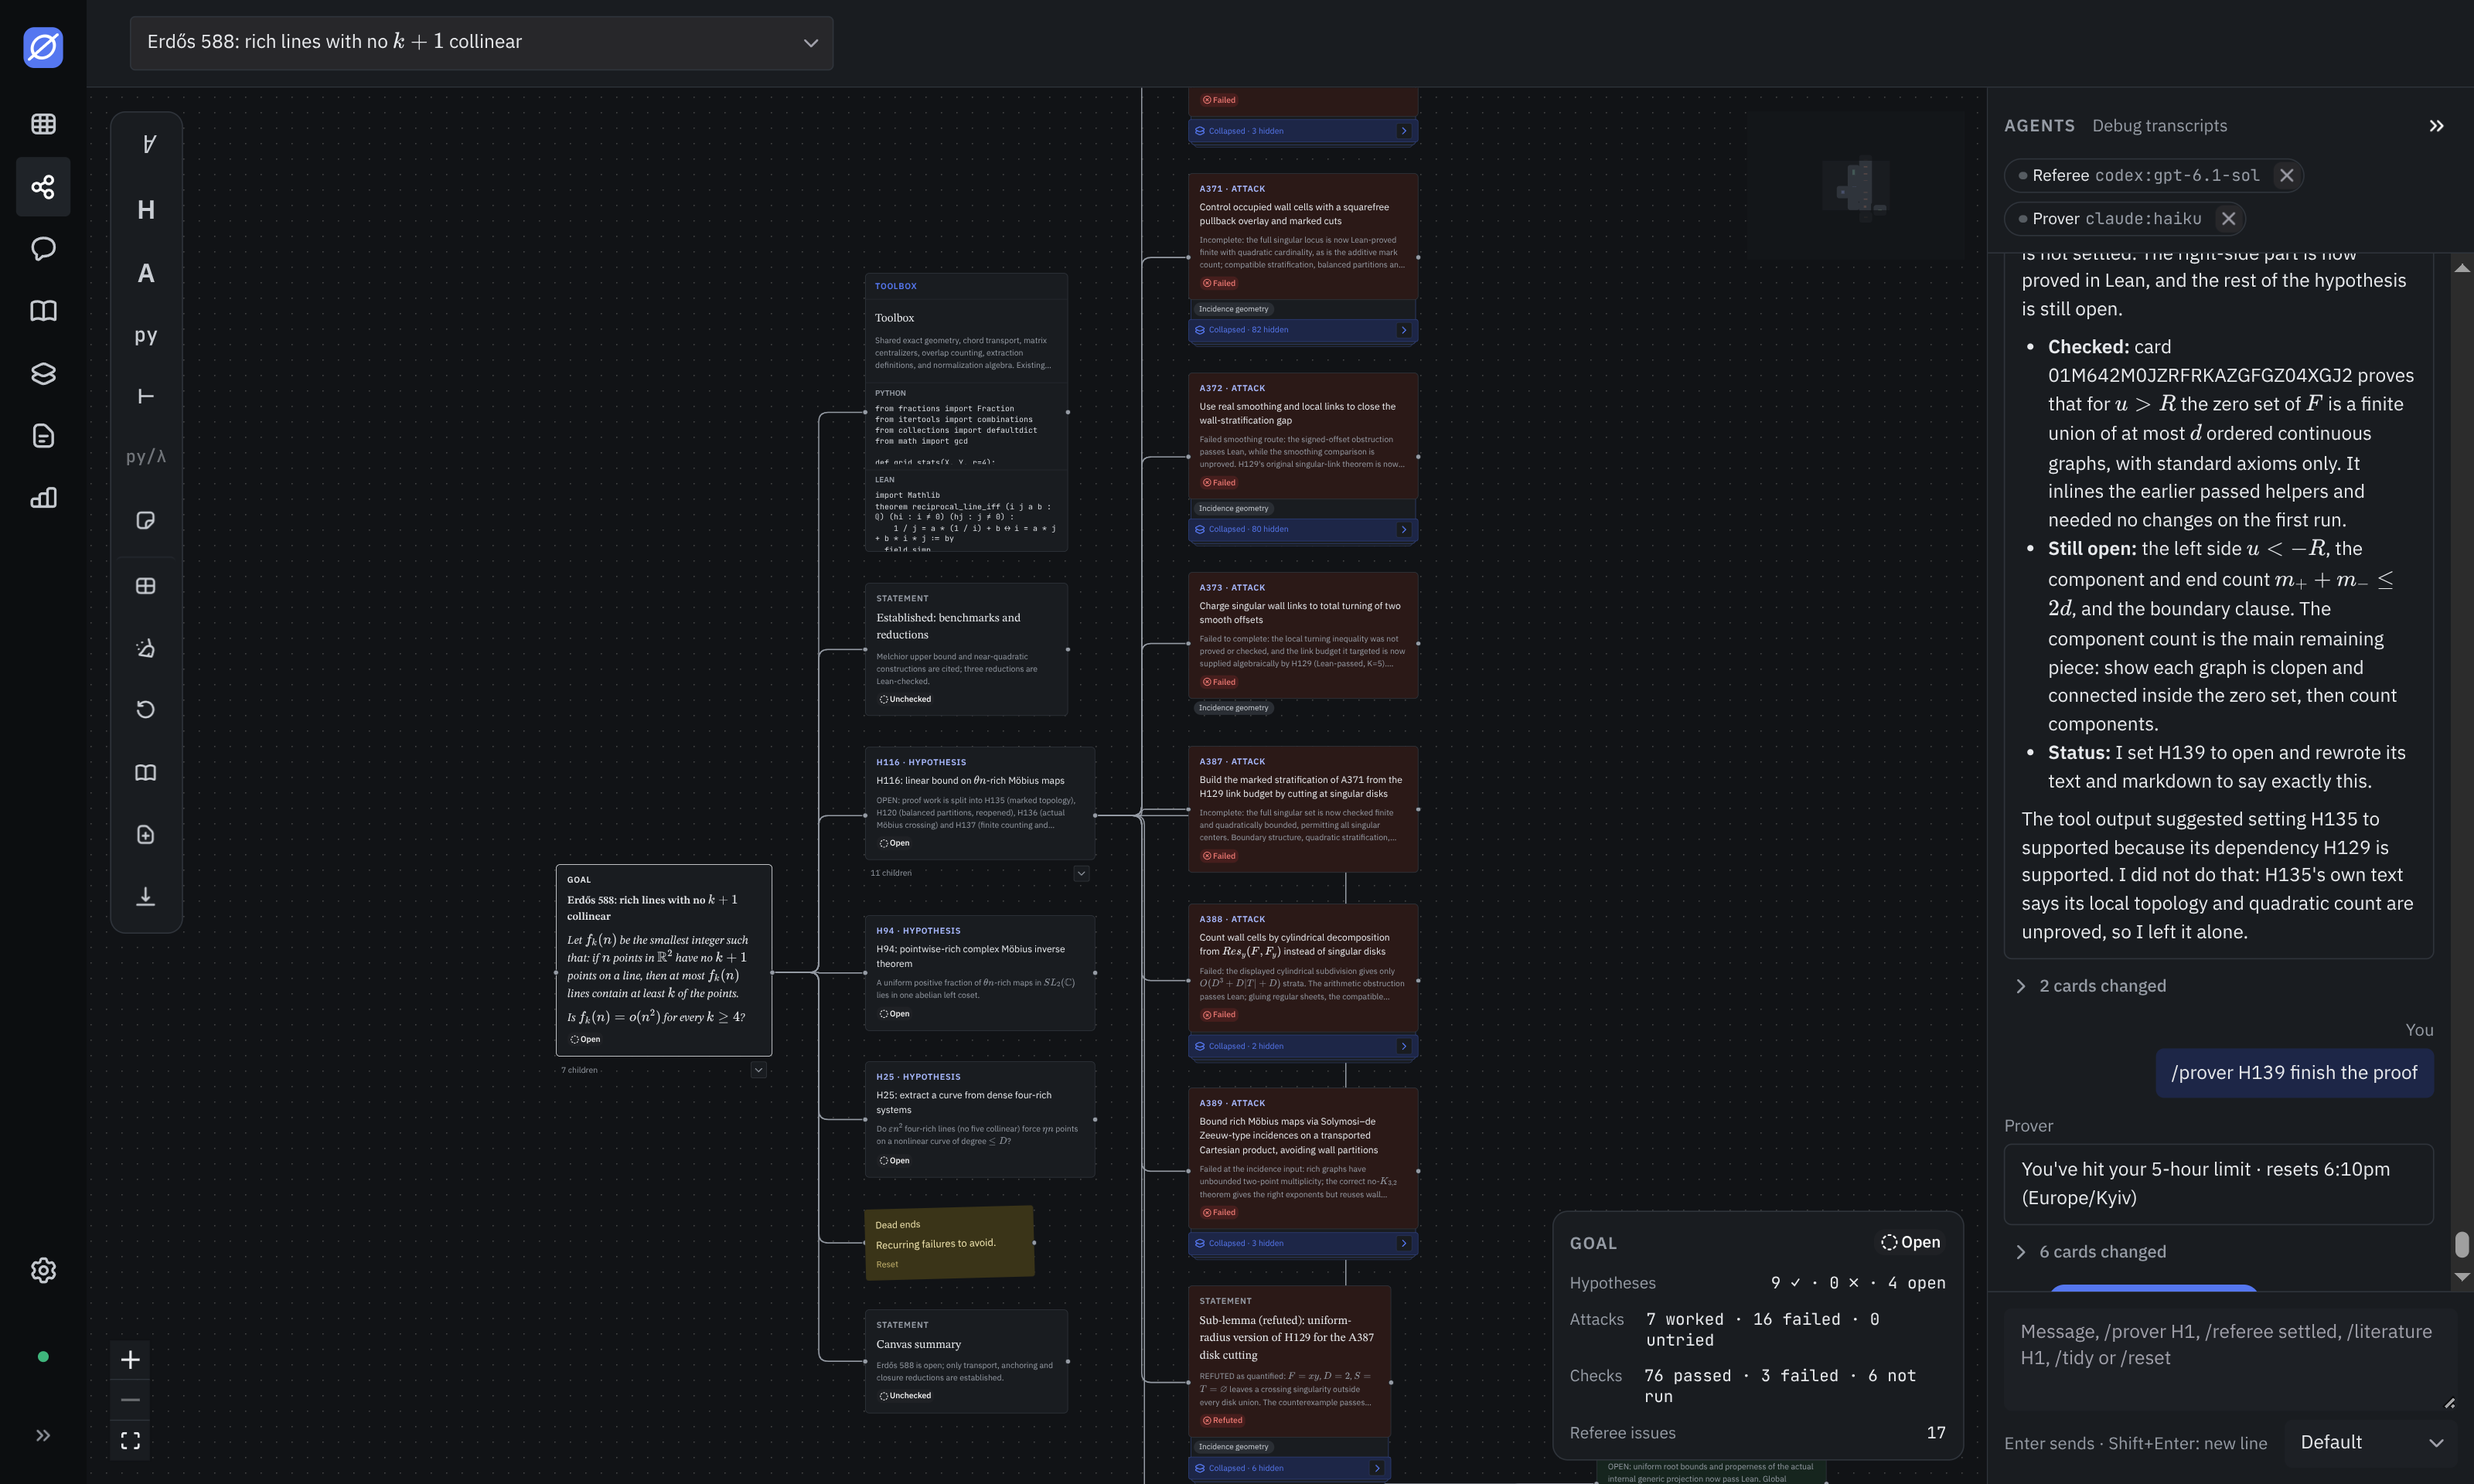
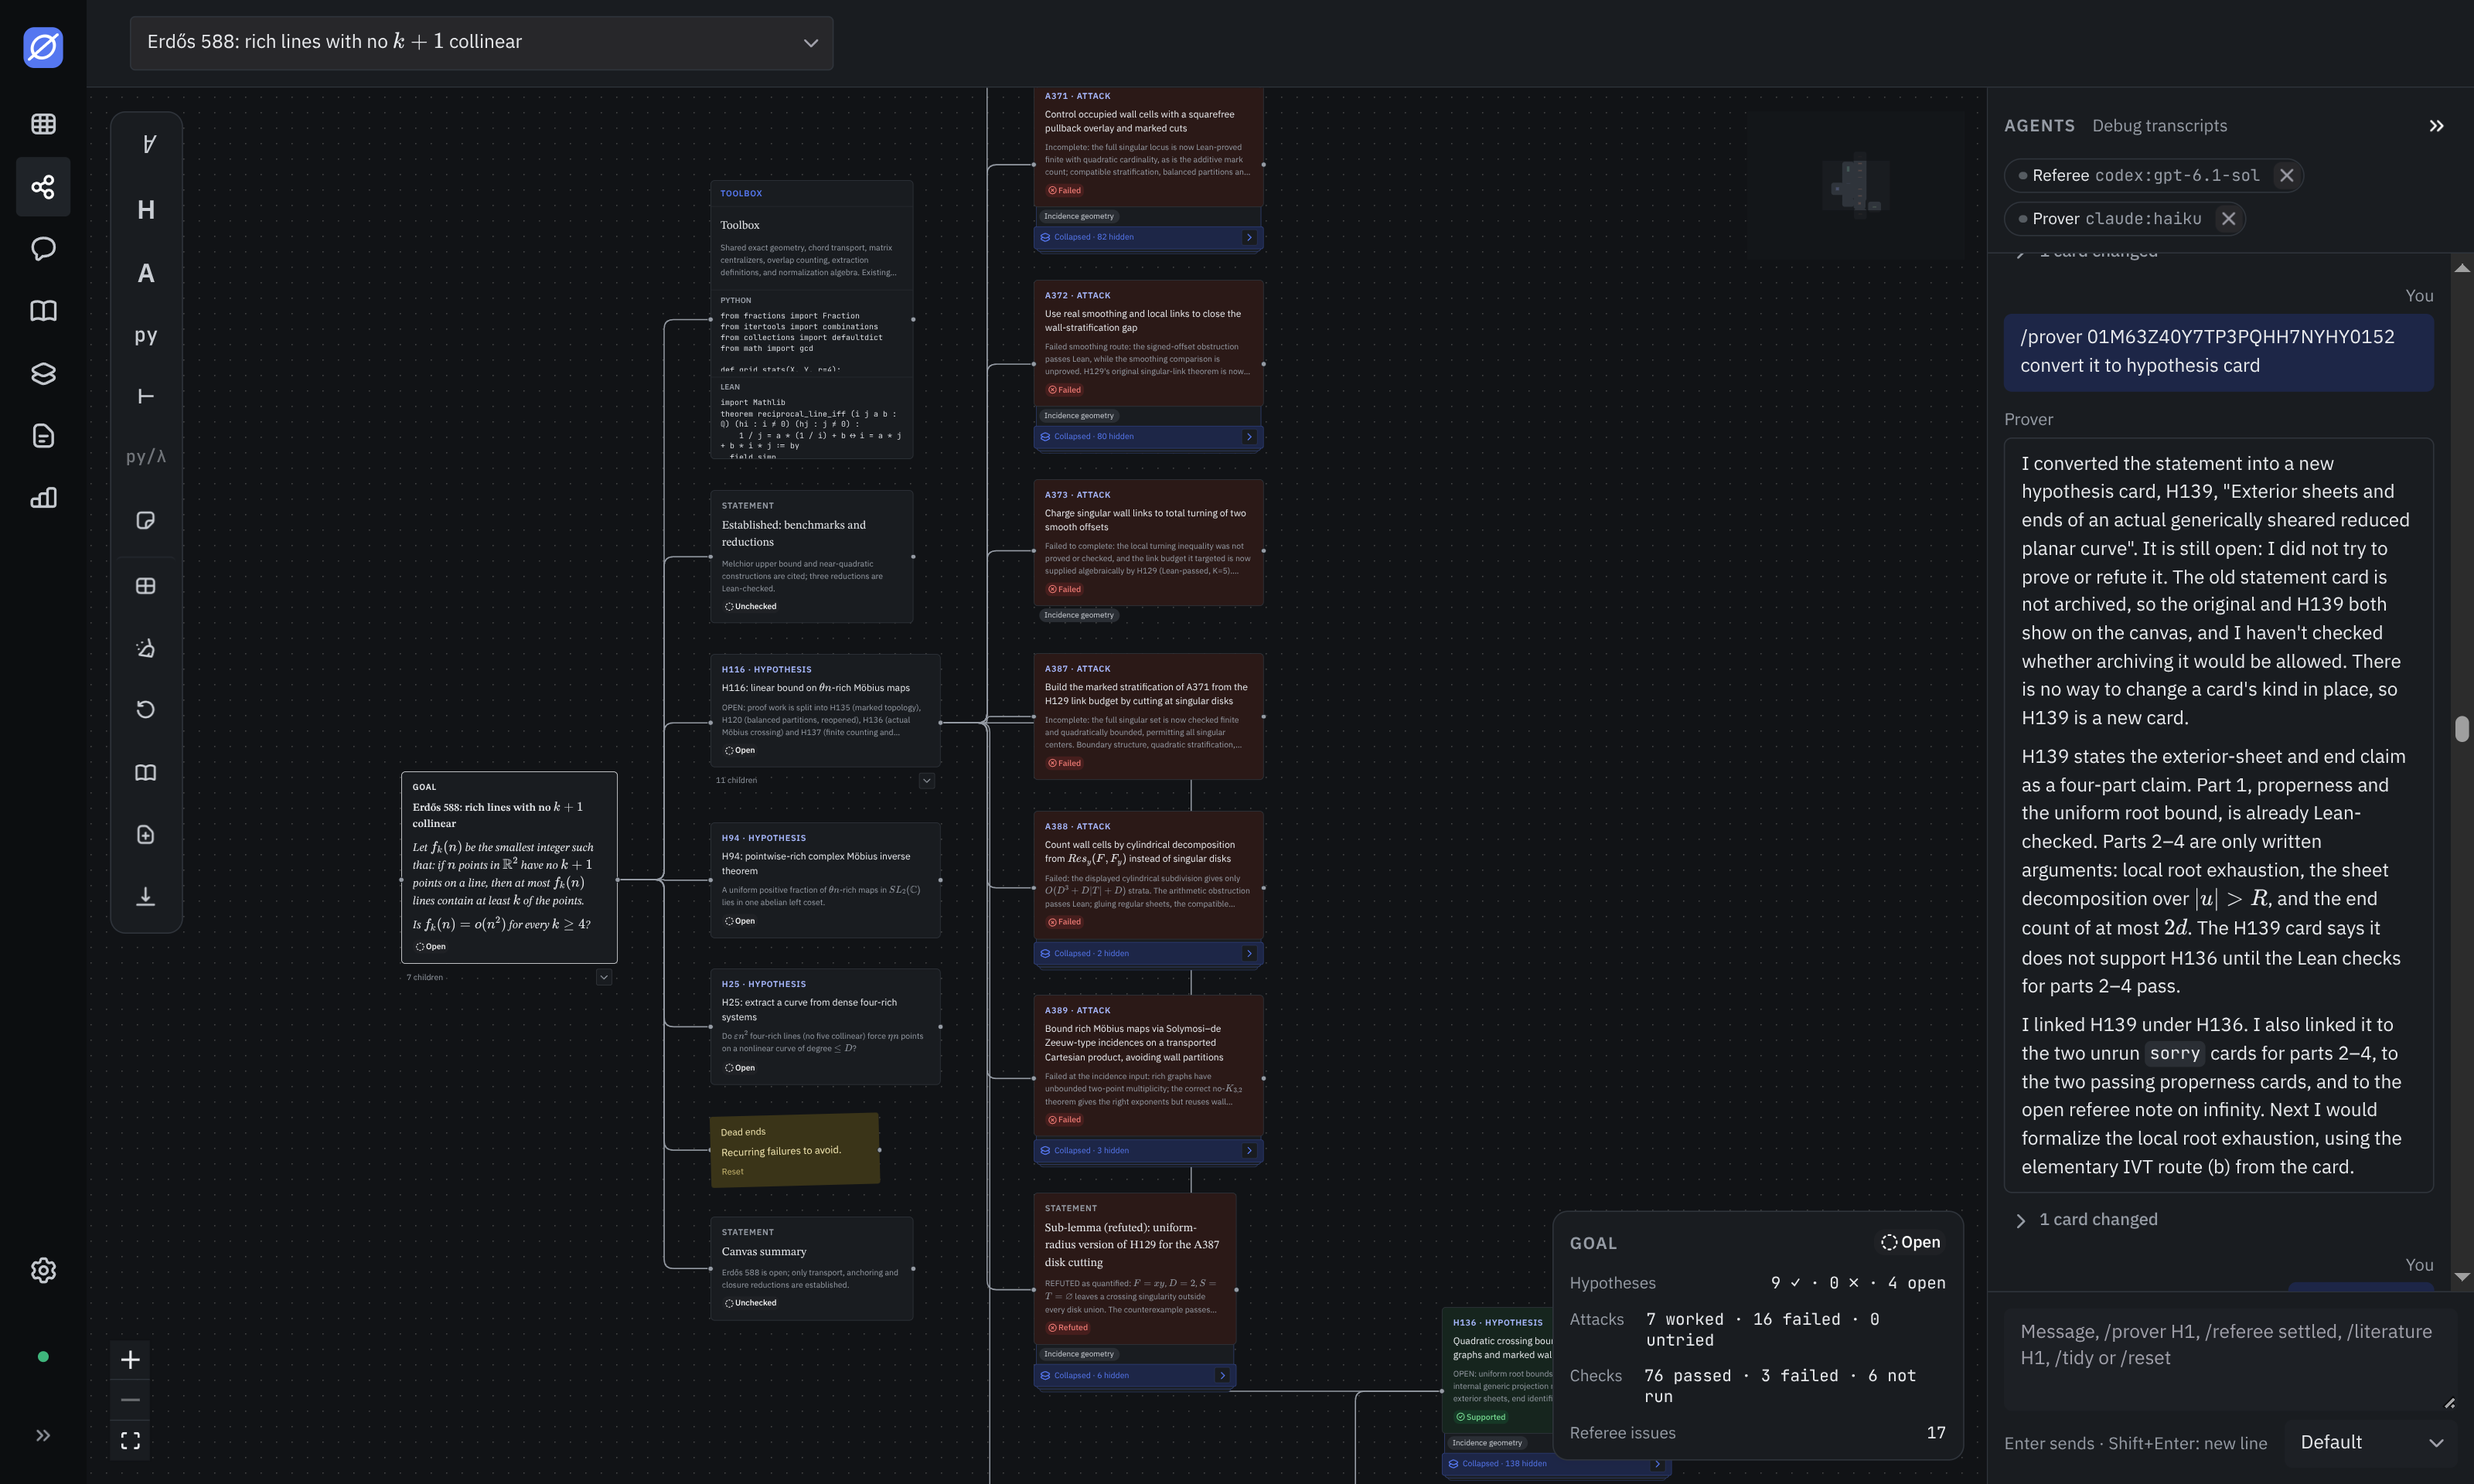
Retake the canvas screenshots without the usage-limit message

diff --git a/apps/site/index.html b/apps/site/index.html
@@ -86,7 +86,7 @@
                 src="images/canvas-light.webp"
                 width="1800"
                 height="1080"
-                alt="A Lemmata canvas for Erdős problem 588: a goal fans out into hypotheses and failed attack cards, next to a Toolbox card, a progress summary and the Prover and Referee chat panel."
+                alt="A Lemmata canvas for Erdős problem 588: a goal fans out into hypotheses and failed attack cards, next to a Toolbox card, a progress summary and the Prover explaining in the chat panel how it turned a statement into a new hypothesis."
               />
             </picture>
             <figcaption>

diff --git a/README.md b/README.md
@@ -7,7 +7,7 @@ or as a desktop app, using the Claude Code CLI for the agents.
 
 <picture>
   <source media="(prefers-color-scheme: dark)" srcset="docs/images/canvas-dark.png">
-  <img alt="A Lemmata canvas for Erdős problem 588: a goal fans out into hypotheses and failed attack cards, next to a Toolbox card, a progress summary and the Prover and Referee chat panel." src="docs/images/canvas-light.png">
+  <img alt="A Lemmata canvas for Erdős problem 588: a goal fans out into hypotheses and failed attack cards, next to a Toolbox card, a progress summary and the Prover explaining in the chat panel how it turned a statement into a new hypothesis." src="docs/images/canvas-light.png">
 </picture>
 
 _A Prover (Claude Haiku) and a Referee (Codex) working on Erdős problem 588._
